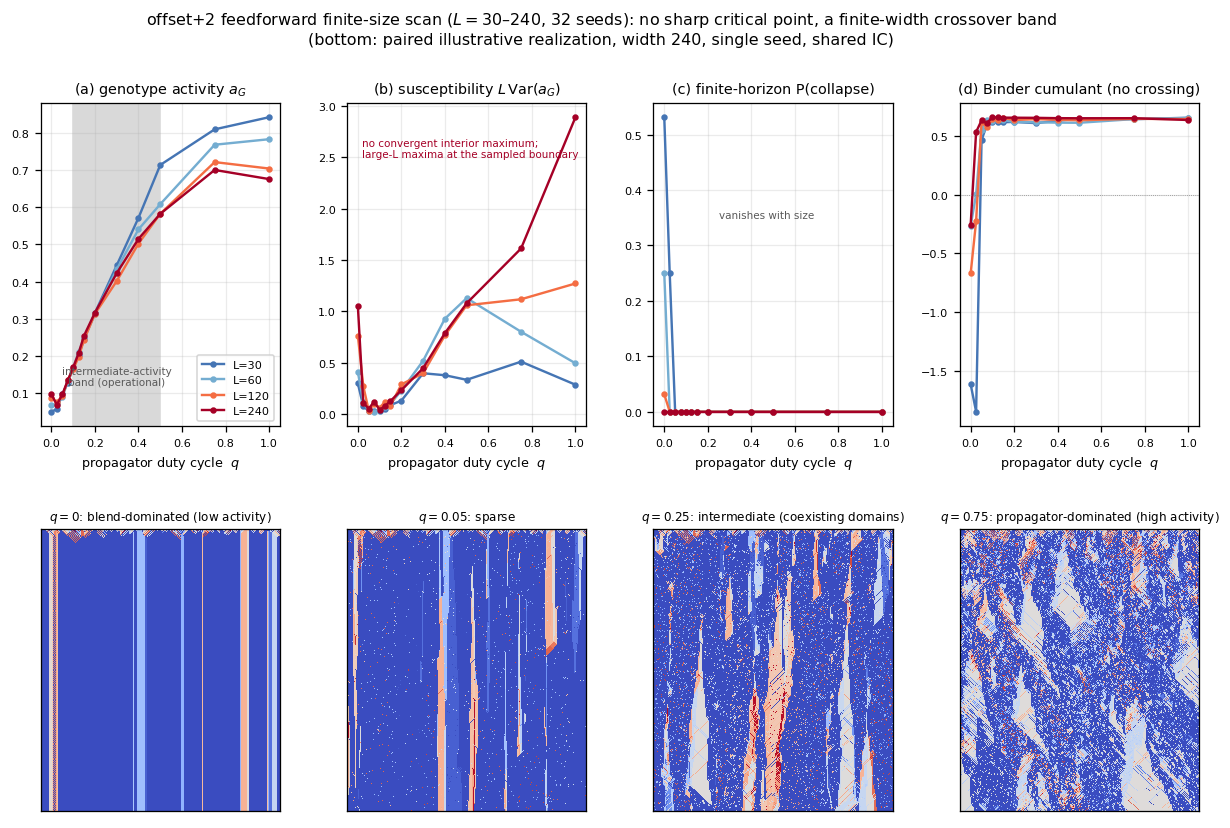
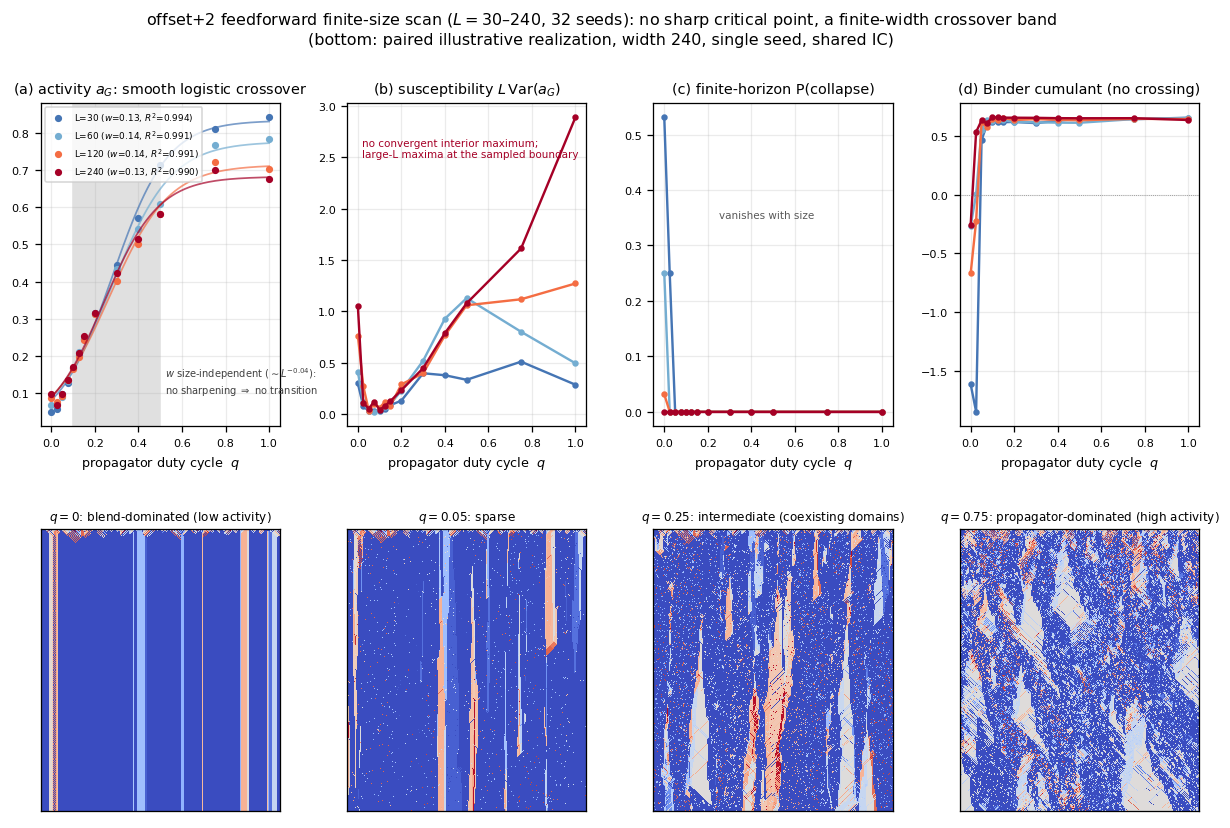
paper: add smooth-crossover logistic fit to phase figure panel (a)
Joe's addition to item 1 (drive home the null critical-point result with a curve,
not just a graph). Four-parameter logistic a_G(q)=a0+(A-a0)/(1+exp(-(q-q0)/w))
fits at every width with R^2=0.994-0.998, and the crossover width w is
size-independent (w=[0.17,0.21,0.19,0.17], w~L^-0.04). The decisive point: a true
critical transition sharpens the order parameter toward a step as L grows
(w~L^-1/nu -> 0); here w does not shrink, so it is a genuine smooth crossover, not
a rounded transition. Overlaid on panel (a); generator + committed data updated.

Changed region(s): [[0.0, 0.0906, 0.2472, 0.3321], [0.0309, 0.3321, 0.2472, 0.5133]]

diff --git a/holes/tech-notes/paper/figures/gen_phase_diagram.py b/holes/tech-notes/paper/figures/gen_phase_diagram.py
@@ -8,9 +8,13 @@ Run from the paper dir: python3 figures/gen_phase_diagram.py
 """
 import os, re
 import numpy as np
+from scipy.optimize import curve_fit
 import matplotlib
 matplotlib.use("Agg")
 import matplotlib.pyplot as plt
+
+def logistic(q, a0, A, q0, w):
+    return a0 + (A - a0) / (1 + np.exp(-(q - q0) / w))
 
 HERE = os.path.dirname(os.path.abspath(__file__))
 DATA = os.path.join(HERE, "phase_data")
@@ -38,15 +42,25 @@ def load(p):
 fig = plt.figure(figsize=(13, 8))
 gs = fig.add_gridspec(2, 4, height_ratios=[1.15, 1], hspace=0.34, wspace=0.28)
 axA, axB, axC, axD = (fig.add_subplot(gs[0, i]) for i in range(4))
+qq = np.linspace(0, 1, 200); ws = []
 for L in Ls:
     s = d[d[:, 0] == L]; c = cmap[L]
-    axA.plot(s[:, 1], s[:, 2], "o-", color=c, ms=3, label=f"L={int(L)}")
+    # smooth-crossover fit: logistic a_G(q); width w is the crossover sharpness
+    p, _ = curve_fit(logistic, s[:, 1], s[:, 2], p0=[0.06, 0.7, 0.18, 0.18],
+                     bounds=([0, 0.4, 0, 0.02], [0.12, 1.0, 1, 1]), maxfev=20000)
+    res = s[:, 2] - logistic(s[:, 1], *p)
+    r2 = 1 - np.sum(res**2) / np.sum((s[:, 2] - s[:, 2].mean())**2)
+    ws.append(p[3])
+    axA.plot(s[:, 1], s[:, 2], "o", color=c, ms=3.5, label=f"L={int(L)} ($w$={p[3]:.2f}, $R^2$={r2:.3f})")
+    axA.plot(qq, logistic(qq, *p), "-", color=c, lw=1.1, alpha=0.7)
     axB.plot(s[:, 1], s[:, 5], "o-", color=c, ms=3)
     axC.plot(s[:, 1], s[:, 7], "o-", color=c, ms=3)
     axD.plot(s[:, 1], s[:, 6], "o-", color=c, ms=3)
-axA.axvspan(0.10, 0.50, color="0.85", zorder=0)                 # the operational crossover band
-axA.set_title(r"(a) genotype activity $a_G$", fontsize=9); axA.legend(fontsize=7)
-axA.annotate("intermediate-activity\nband (operational)", (0.30, 0.12), fontsize=6.5, ha="center", color="0.35")
+axA.axvspan(0.10, 0.50, color="0.88", zorder=0)                 # the operational crossover band
+axA.set_title(r"(a) activity $a_G$: smooth logistic crossover", fontsize=9)
+axA.legend(fontsize=5.6, loc="upper left")
+axA.annotate("$w$ size-independent ($\\sim L^{-0.04}$):\nno sharpening $\\Rightarrow$ no transition",
+             (0.52, 0.10), fontsize=6.2, ha="left", color="0.25")
 axB.set_title(r"(b) susceptibility $L\,\mathrm{Var}(a_G)$", fontsize=9)
 axB.annotate("no convergent interior maximum;\nlarge-L maxima at the sampled boundary", (0.02, 2.5),
              fontsize=6.5, color="#a50026", ha="left")
